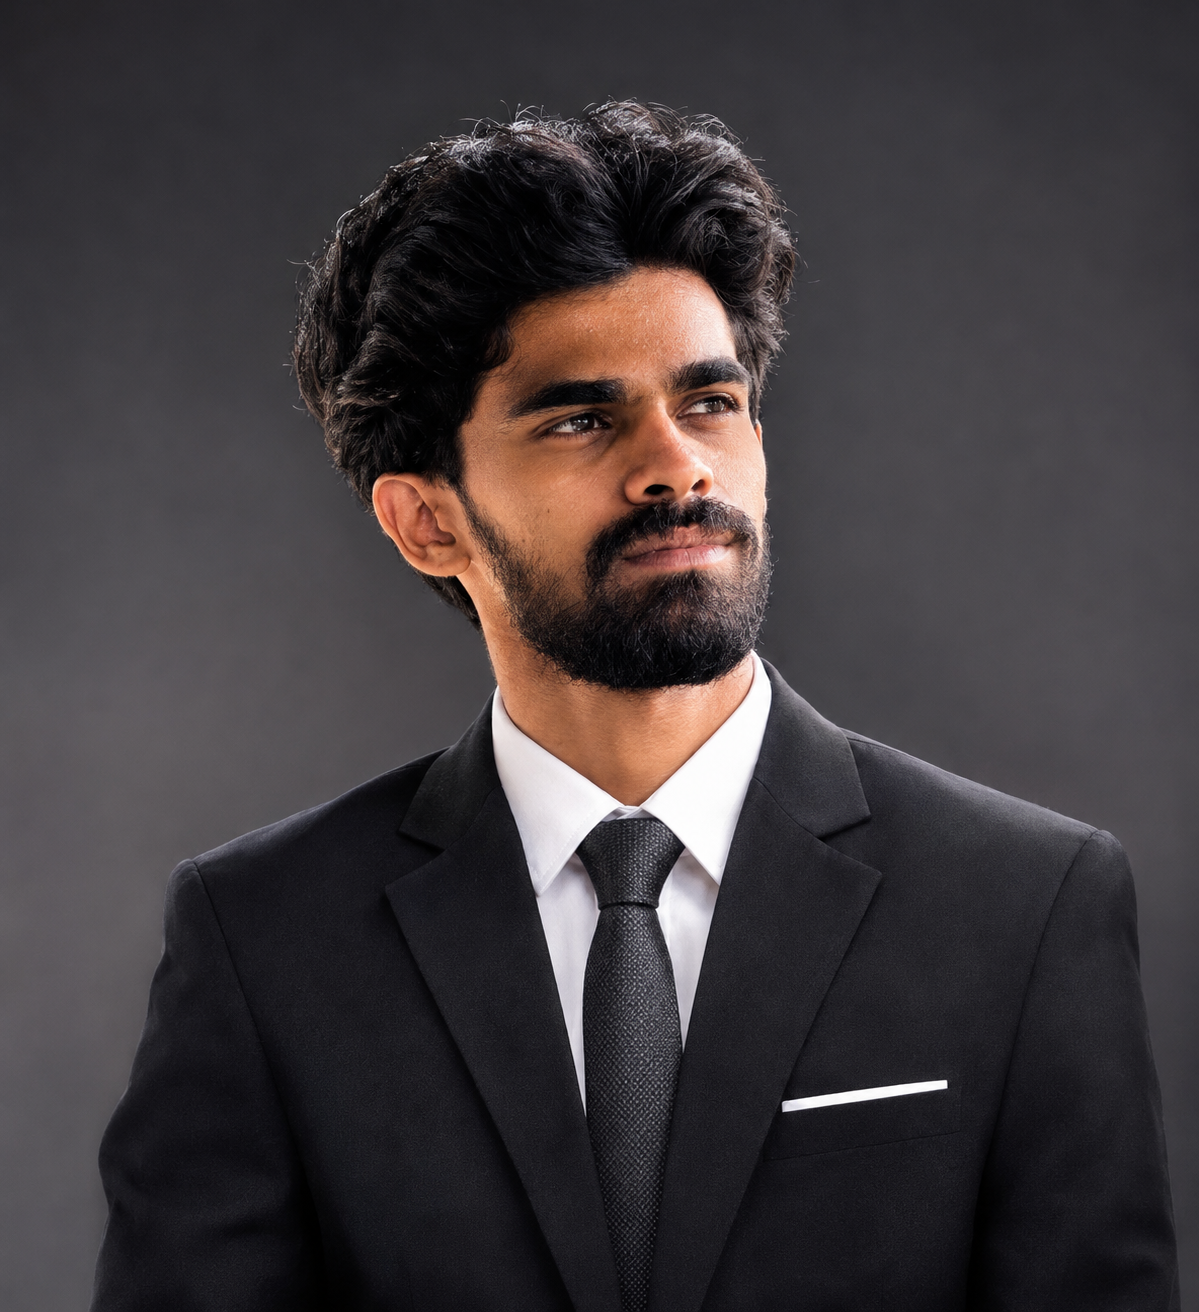
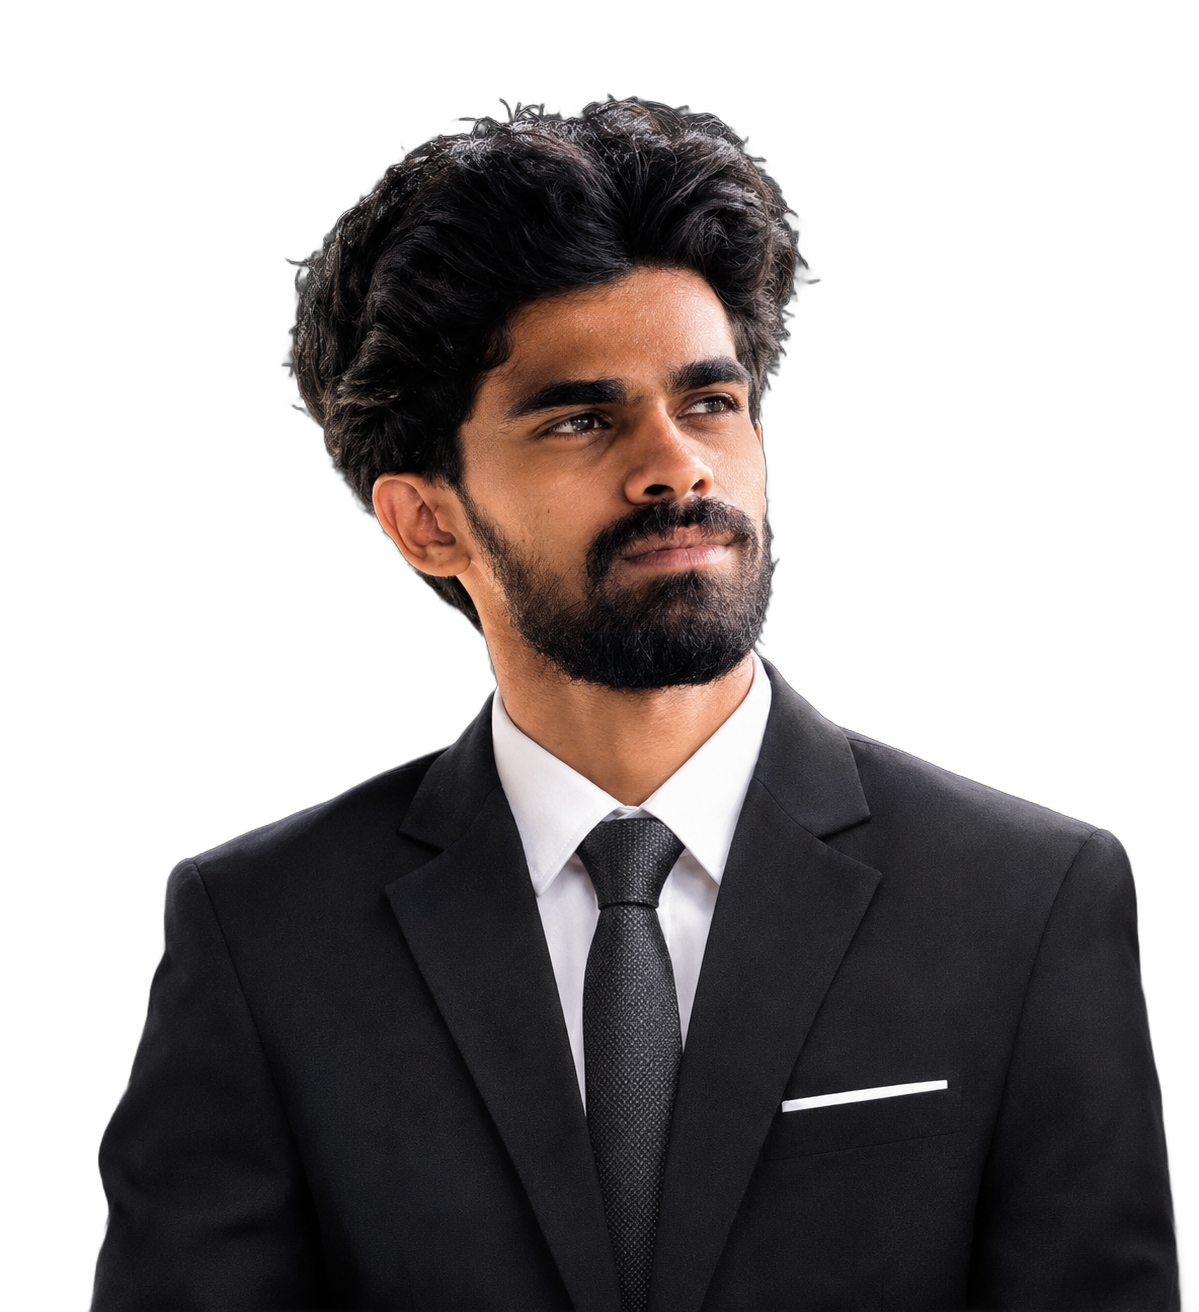
Transparent profile photo, faded on mobile

diff --git a/components/Hero.tsx b/components/Hero.tsx
@@ -31,7 +31,7 @@ export default function Hero() {
       </Reveal>
 
       {/* photo (or placeholder) */}
-      <div className="absolute bottom-0 left-1/2 -z-10 h-[72svh] w-[min(80vw,520px)] -translate-x-1/2 mask-[linear-gradient(to_bottom,black_70%,transparent)]">
+      <div className="absolute bottom-0 left-1/2 -z-10 opacity-40 md:opacity-100 h-[72svh] w-[min(80vw,520px)] -translate-x-1/2 mask-[linear-gradient(to_bottom,black_70%,transparent)]">
         {HAS_PHOTO ? (
           <Image
             src="/me.png"
